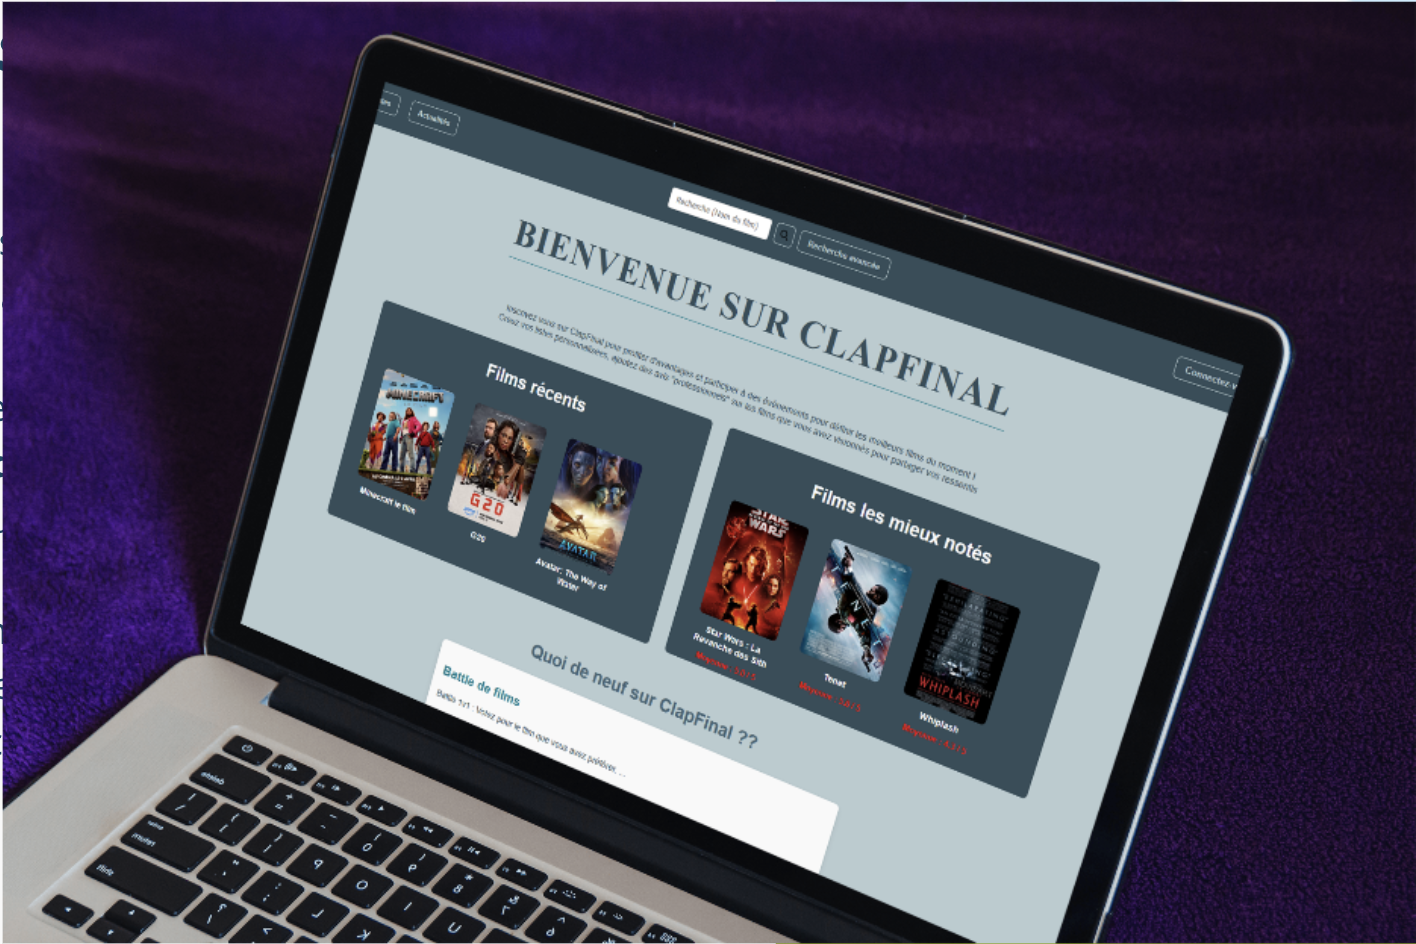
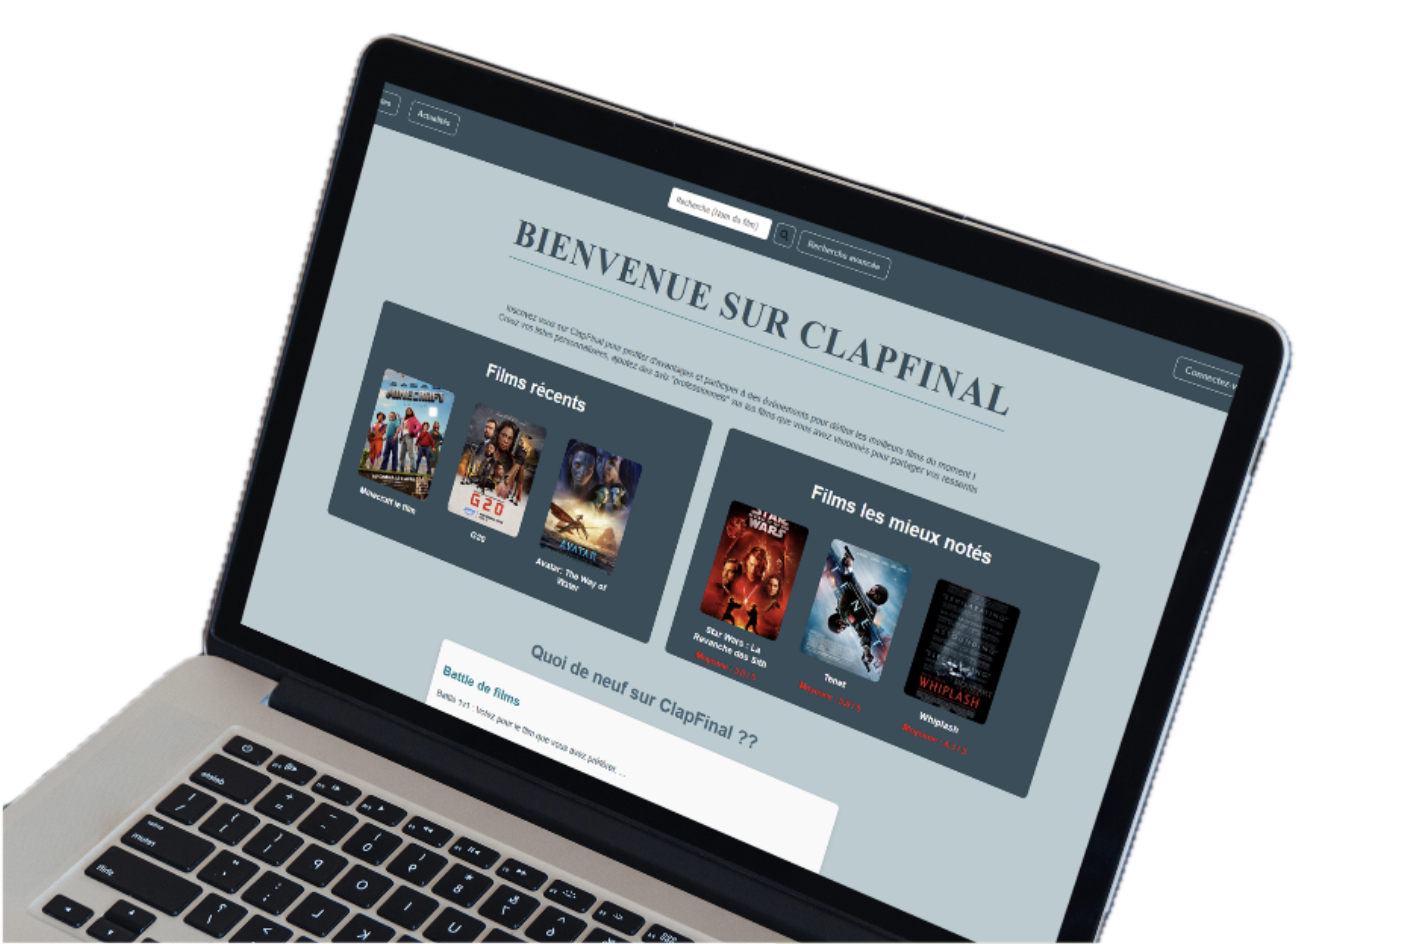
images now ?

diff --git a/profil.html b/profil.html
@@ -12,8 +12,8 @@
     
     <header>
         <div class="header-content">
-            <img src="IMG_8880-2.png" alt="Portrait" class="header-image1">
-            <h1>Profil</h1>
+            <img src="portrait.png" alt="Portrait" class="header-image1">
+            <h1>Marius Laborde</h1>
         </div>
     </header>
     